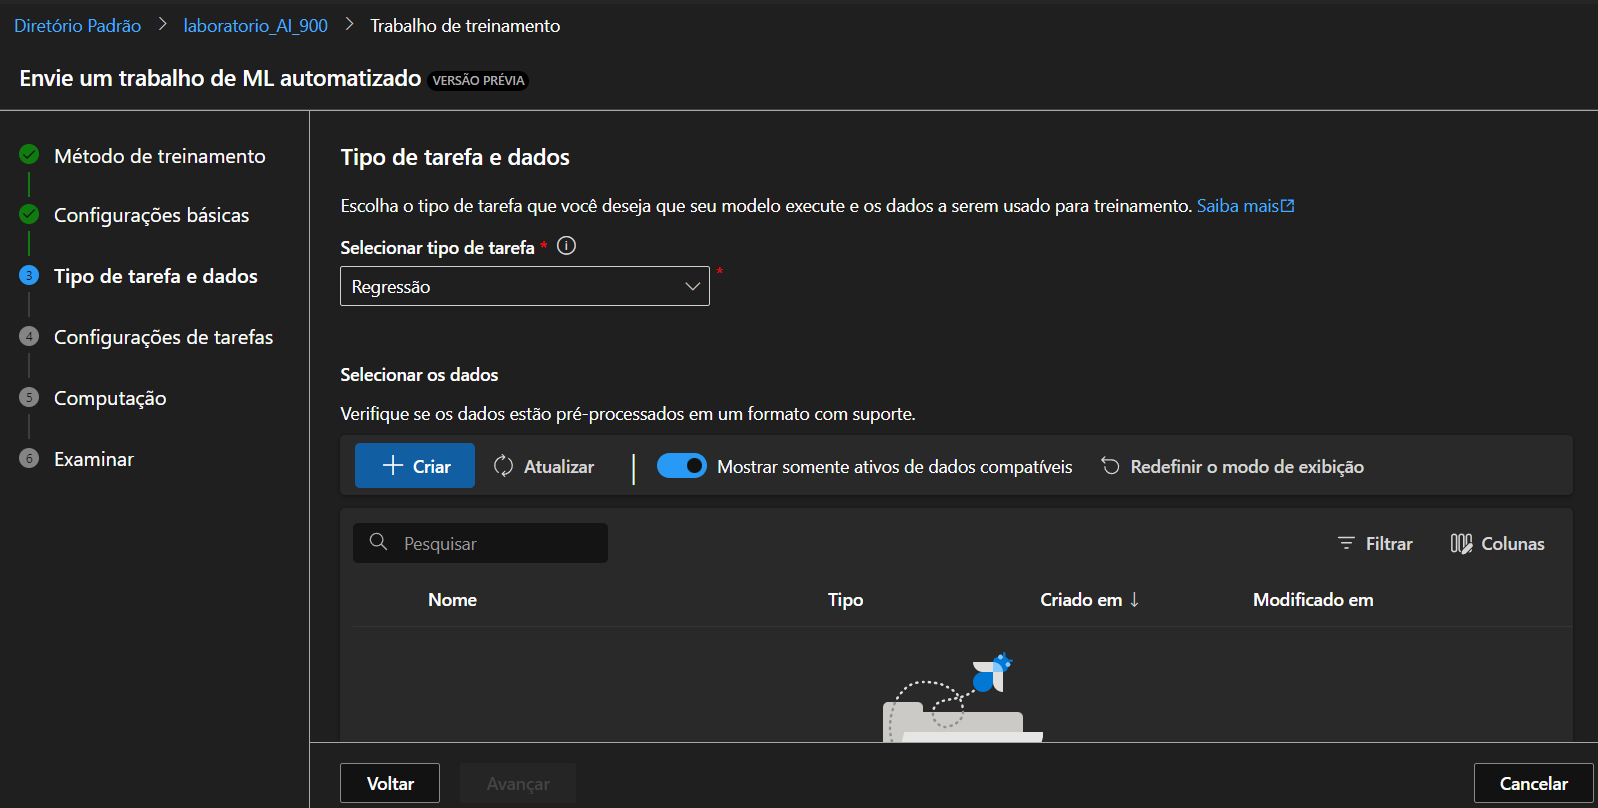
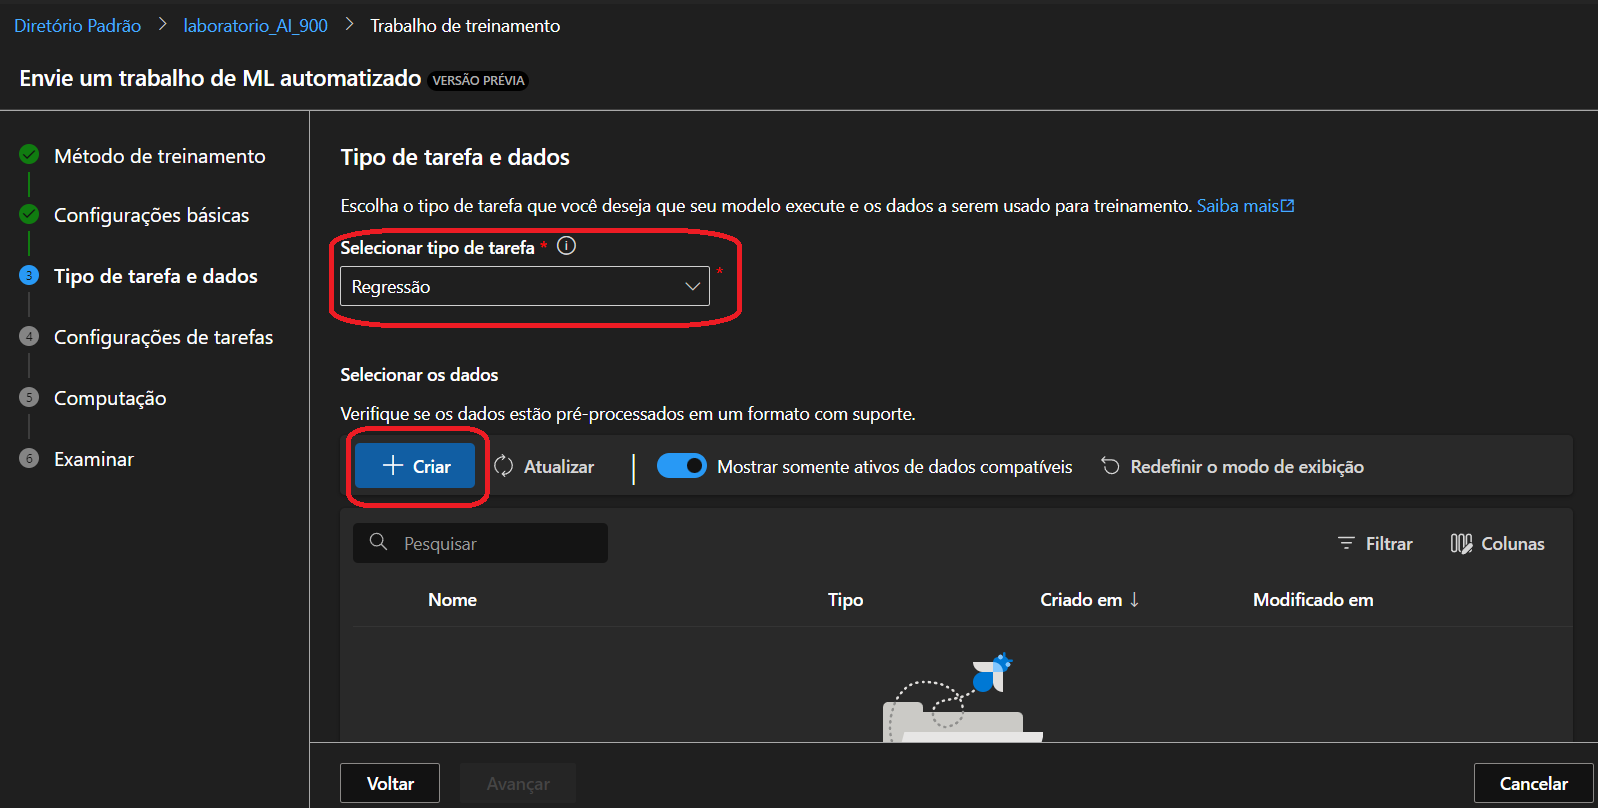
Sétimo Commit - DP01 Finalizado

diff --git a/DP01 - Machine Learning com AzureML/DP01_README.md b/DP01 - Machine Learning com AzureML/DP01_README.md
@@ -1,1 +1,150 @@
 # Trabalhando com Machine Learning na Prática no Azure ML
+
+## 1. Criando Workspace no Azure
+Como passo inicial, é importante que seja criado um workspace no Azure, caso você não tenha um.
+
+- O primeiro passo é clicar para "Criar um recurso".
+- Após clicar, você será levado a página do Marketplace.
+- Digite na barra de pesquisa "machine learning" e clique em "criar" após localizar o Azure Machine Learning.
+
+<img src="DP01_imagens\01.png" /> <br>
+
+Na próxima página terá algumas configurações a serem feitas.
+
+- Colocar a Assinatura e Grupo de recursos (se não tiver um, apenas clicar em "criar novo")
+
+<img src="DP01_imagens\02.png" /> <br>
+
+Após esse passo, colocar as configurações como na imagem abaixo:
+
+- A Região East US foi escolhida devido ao custo ser menor do que no Brasil.
+- Os campos: "Conta de armazenamento", "Cofre de chaves" e "Application Insights" são preenchidos automaticamente após você preencher o primeiro campo "Nome".
+
+<img src="DP01_imagens\03.png" /> <br>
+
+A partir daí, poderá criar o workspace, será feita a validação primeiro como na imagem abaixo, e então poderá clicar em "criar":
+
+<img src="DP01_imagens\04.png" /> <br>
+
+Após ser concluída, poderá "ir para o recurso":
+
+<img src="DP01_imagens\05.png" /> <br>
+
+E iniciar o estúdio:
+
+<img src="DP01_imagens\06.png" /> <br>
+
+Já no estúdio, poderá ver os espaços de trabalho como na imagem abaixo e clicar neles para entrar:
+
+<img src="DP01_imagens\07.png" /> <br>
+
+E então podemos começar a próxima etapa na aba "ML Automatizado".
+
+<img src="DP01_imagens\08.png" /> <br>
+--
+
+## 2. Criando ML Automatizado
+Após clicar em "Novo trabalho de ML automatizado" como na imagem anterior, seguiremos o próximo passo de preencher os campos como está na imagem abaixo e clicar em "avançar":
+
+<img src="DP01_imagens\09.png" /> <br>
+
+Nesta tela selecionaremos o tipo de tarefa "Regressão" e criaremos um ativo de dados:
+
+<img src="DP01_imagens\10.png" /> <br>
+
+Preencher conforme imagem:
+
+<img src="DP01_imagens\11.png" /> <br>
+
+Agora será selecionado a opção "De arquivos da Web":
+
+<img src="DP01_imagens\12.png" /> <br>
+
+Nesta página, preencher com este link e clicar em "avançar":
+
+<img src="DP01_imagens\13.png" /> <br>
+
+Verificar se os campos estão iguais da imagem:
+
+<img src="DP01_imagens\14.png" /> <br>
+
+Seguir:
+
+<img src="DP01_imagens\15.png" /> <br>
+
+Clicar em "Criar":
+
+<img src="DP01_imagens\16.png" /> <br>
+
+Podemos ver que o ativo foi criado e agora podemos avançar:
+
+<img src="DP01_imagens\17.png" /> <br>
+
+Nesta tela, verificar a "Coluna de destino" e selecionar "rentals (Integer)" e clicar em "Exibir definições de configuração adicionais":
+
+<img src="DP01_imagens\18.png" /> <br>
+
+Selecionar e preencher conforme imagem:
+
+<img src="DP01_imagens\19.png" /> <br>
+
+Preencher conforme imagem:
+
+<img src="DP01_imagens\20.png" /> <br>
+<img src="DP01_imagens\21.png" /> <br>
+<img src="DP01_imagens\22.png" /> <br>
+
+Agora é só enviar o trabalho de treinamento:
+
+<img src="DP01_imagens\23.png" /> <br>
+
+Após envio do trabalho, irá passar pelo processo de configuração. Neste caso, espere até que termine o processamento.
+
+<img src="DP01_imagens\24.png" /> <br>
+<img src="DP01_imagens\25.png" /> <br>
+
+Após processamento, na aba de "Jobs" poderá ver os resultados:
+
+<img src="DP01_imagens\26.png" /> <br>
+<img src="DP01_imagens\27.png" /> <br>
+--
+
+## 3. Teste do Modelo
+Na página do modelo:
+- Clique na aba "Pontos de extremidade" (também é possível acessar pelo menu lateral em "Pontos de extremidade"). 
+- Clique no ponto correspondente ao modelo gerado. Em seguida, acesse a aba "Testar".
+
+Para o teste, foi utilizado o JSON abaixo:
+
+``` JASON
+ {
+   "Inputs": { 
+     "data": [
+       {
+         "day": 1,
+         "mnth": 1,   
+         "year": 2022,
+         "season": 2,
+         "holiday": 0,
+         "weekday": 1,
+         "workingday": 1,
+         "weathersit": 2, 
+         "temp": 0.3, 
+         "atemp": 0.3,
+         "hum": 0.3,
+         "windspeed": 0.3 
+       }
+     ]    
+   },   
+   "GlobalParameters": 1.0
+ }
+```
+
+A previsão gerada foi: 361.95
+
+``` JASON
+[
+  361.95238671338427
+]
+```
+

diff --git a/README.md b/README.md
@@ -1,5 +1,5 @@
 # Bootcamp Microsoft Azure AI Fundamentals - Desafios de Projeto
-<img src="imagem\1.jpeg" />
+<img src="imagem\01.jpeg" />
 
 ---
 ## Detalhes do Bootcamp
